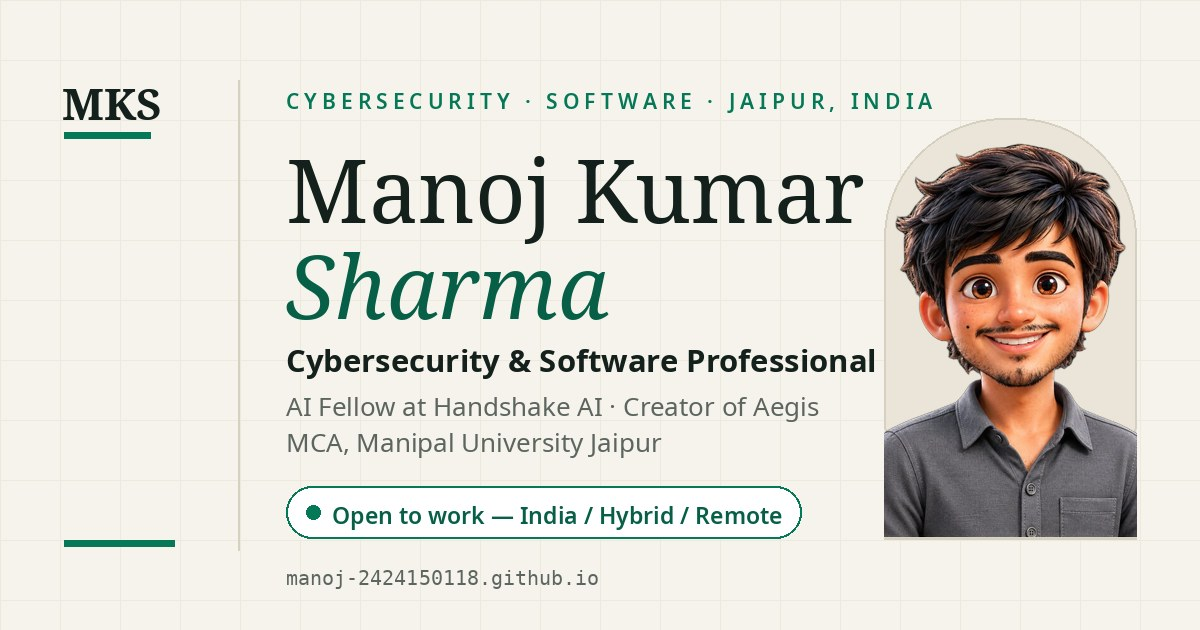
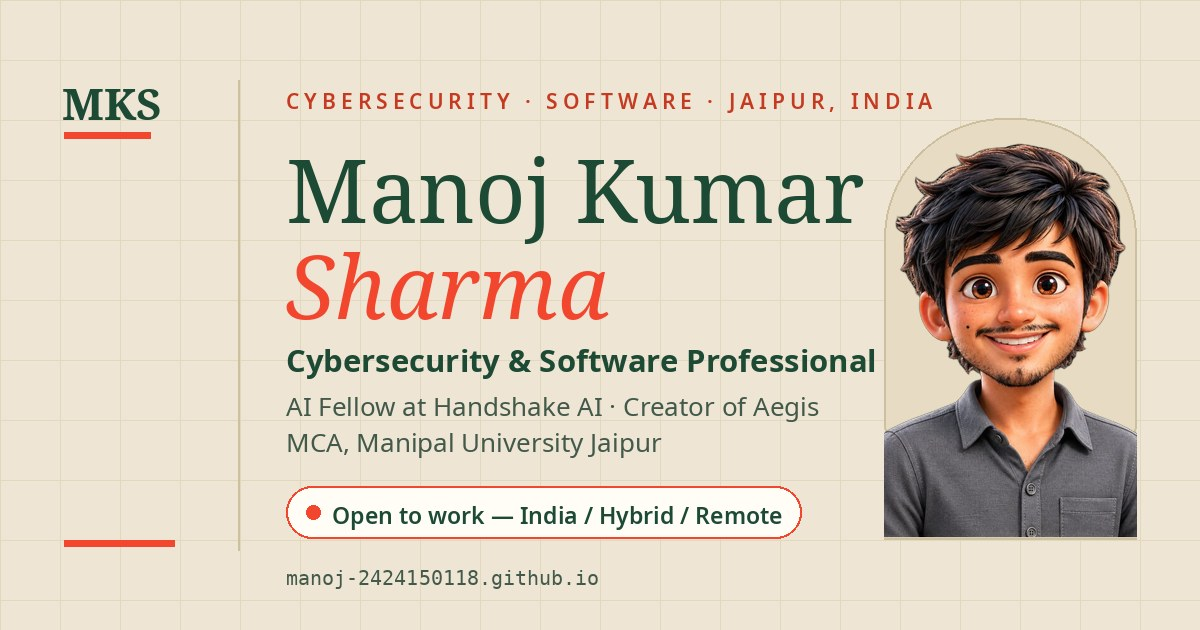
style: apply reel palette (Oat Milk / Forest Green / Tomato Red 60-30-10) to both colour schemes

Changed region(s): [[0.0, 0.0, 1.0, 1.0], [0.925, 0.754, 1.0, 0.8143]]

diff --git a/styles.css b/styles.css
@@ -2,22 +2,22 @@
 @font-face{font-family:'Instrument Serif';font-style:italic;font-weight:400;font-display:swap;src:url('fonts/instrument-serif-italic.woff2') format('woff2')}
 @font-face{font-family:'Inter';font-style:normal;font-weight:100 900;font-display:swap;src:url('fonts/inter-variable.woff2') format('woff2')}
 :root{
-  --bg:#050807; --bg-2:#0a0f0d; --panel:rgba(255,255,255,.045); --panel-2:rgba(16,185,129,.08);
-  --line:rgba(255,255,255,.10); --line-strong:rgba(110,231,199,.35); --ink:#ffffff; --ink-2:#e2e8f0; --ink-3:#94a3b8;
-  --accent:#10b981; --accent-2:#a7f3d0; --accent-soft:#6ee7b7; --accent-ink:#04120e;
+  --bg:#0a1f13; --bg-2:#0f2a1a; --panel:rgba(238,229,212,.05); --panel-2:rgba(46,106,74,.16);
+  --line:rgba(238,229,212,.12); --line-strong:rgba(242,70,46,.45); --ink:#eee5d4; --ink-2:#d9cfbb; --ink-3:#a79b83;
+  --accent:#f2462e; --accent-2:#ff8a70; --accent-soft:#f2462e; --accent-ink:#ffffff;
   --sans:'Inter',system-ui,BlinkMacSystemFont,'Segoe UI',Roboto,sans-serif;
   --serif:'Instrument Serif',Georgia,'Times New Roman',serif;
   --mono:ui-monospace,'SF Mono','Cascadia Code',Menlo,Consolas,monospace;
   --r:16px; --max:1120px; color-scheme:dark;
 }
 *{box-sizing:border-box;margin:0;padding:0}
-html{scroll-behavior:smooth;-webkit-text-size-adjust:100%;scroll-padding-top:96px;scrollbar-color:rgba(16,185,129,.55) var(--bg)}
+html{scroll-behavior:smooth;-webkit-text-size-adjust:100%;scroll-padding-top:96px;scrollbar-color:rgba(242,70,46,.55) var(--bg)}
 body{background:var(--bg);color:var(--ink);font-family:var(--sans);font-weight:400;line-height:1.65;overflow-x:hidden;-webkit-font-smoothing:antialiased;
-  background-image:radial-gradient(900px 480px at 85% -5%,rgba(16,185,129,.16),transparent 60%),radial-gradient(700px 420px at -10% 20%,rgba(16,185,129,.07),transparent 55%)}
+  background-image:radial-gradient(900px 480px at 85% -5%,rgba(242,70,46,.13),transparent 60%),radial-gradient(700px 420px at -10% 20%,rgba(46,106,74,.20),transparent 55%)}
 ::-webkit-scrollbar{width:10px}
 ::-webkit-scrollbar-track{background:var(--bg)}
-::-webkit-scrollbar-thumb{background:rgba(16,185,129,.4);border-radius:8px;border:2px solid var(--bg)}
-::-webkit-scrollbar-thumb:hover{background:rgba(16,185,129,.65)}
+::-webkit-scrollbar-thumb{background:rgba(242,70,46,.4);border-radius:8px;border:2px solid var(--bg)}
+::-webkit-scrollbar-thumb:hover{background:rgba(242,70,46,.65)}
 ::selection{background:var(--accent);color:var(--accent-ink)}
 img{max-width:100%;display:block}
 a{color:var(--accent-2);text-decoration:none}
@@ -26,11 +26,11 @@ a:hover{text-decoration:underline}
 main:focus{outline:none}
 .wrap{position:relative;max-width:var(--max);width:100%;margin:0 auto;padding:0 24px}
 .skip{position:absolute;left:-9999px;top:auto}
-.skip:focus{left:24px;top:16px;z-index:99;background:#0a0f0d;padding:10px 16px;border-radius:8px;border:1px solid var(--line)}
+.skip:focus{left:24px;top:16px;z-index:99;background:#0f2a1a;padding:10px 16px;border-radius:8px;border:1px solid var(--line)}
 .sr-only{position:absolute!important;width:1px;height:1px;padding:0;margin:-1px;overflow:hidden;clip:rect(0,0,0,0);white-space:nowrap;border:0}
 main{counter-reset:sec}
-nav{position:sticky;top:0;z-index:50;backdrop-filter:blur(14px);-webkit-backdrop-filter:blur(14px);background:rgba(5,8,7,.78);border-bottom:1px solid var(--line);transition:background .3s,box-shadow .3s}
-nav.scrolled{background:rgba(5,8,7,.94);box-shadow:0 12px 32px rgba(0,0,0,.45)}
+nav{position:sticky;top:0;z-index:50;backdrop-filter:blur(14px);-webkit-backdrop-filter:blur(14px);background:rgba(10,31,19,.80);border-bottom:1px solid var(--line);transition:background .3s,box-shadow .3s}
+nav.scrolled{background:rgba(10,31,19,.95);box-shadow:0 12px 32px rgba(0,0,0,.45)}
 .progress{position:absolute;top:0;left:0;height:2px;width:100%;background:linear-gradient(90deg,var(--accent),var(--accent-2));transform-origin:0 50%;transform:scaleX(0);z-index:60}
 nav .wrap{display:flex;align-items:center;justify-content:space-between;min-height:62px;gap:16px}
 .brand{display:flex;align-items:center;gap:10px;color:var(--ink);font-family:var(--serif);font-size:1.08rem}
@@ -45,7 +45,7 @@ nav .wrap{display:flex;align-items:center;justify-content:space-between;min-heig
 .navlinks a.active::after{transform:scaleX(1)}
 .navlinks a.nav-cta{border:1px solid var(--accent);color:var(--accent-2)!important;padding:8px 14px;border-radius:999px;text-transform:none!important;letter-spacing:0!important;font-size:.84rem!important;transition:background .2s,transform .2s}
 .nav-cta::after{display:none}
-.nav-cta:hover{background:rgba(16,185,129,.14);transform:translateY(-1px)}
+.nav-cta:hover{background:rgba(242,70,46,.14);transform:translateY(-1px)}
 .menu-toggle{display:none;background:none;border:none;color:var(--ink);cursor:pointer;padding:6px;min-width:44px;min-height:44px;align-items:center;justify-content:center}
 @media(max-width:1024px){
   .menu-toggle{display:inline-flex}
@@ -61,7 +61,7 @@ header::before{content:"";position:absolute;inset:0;pointer-events:none;opacity:
   -webkit-mask-image:radial-gradient(640px 340px at 30% 20%,#000 30%,transparent 75%);mask-image:radial-gradient(640px 340px at 30% 20%,#000 30%,transparent 75%)}
 .hgrid{display:grid;grid-template-columns:1fr;gap:40px;align-items:center}
 @media(min-width:860px){.hgrid{grid-template-columns:1.2fr 1fr;gap:56px;align-items:start}.portrait-wrap{padding-top:89px}}@media(min-width:860px) and (max-width:1099px){.portrait-wrap{padding-top:110px}}
-.availability{display:inline-flex;align-items:center;gap:9px;border:1px solid rgba(16,185,129,.45);background:var(--panel-2);color:var(--accent-2);border-radius:999px;padding:7px 14px;font-size:.82rem;font-weight:500;margin-bottom:20px;white-space:nowrap}
+.availability{display:inline-flex;align-items:center;gap:9px;border:1px solid rgba(242,70,46,.45);background:var(--panel-2);color:var(--accent-2);border-radius:999px;padding:7px 14px;font-size:.82rem;font-weight:500;margin-bottom:20px;white-space:nowrap}
 @media(min-width:1024px) and (max-width:1249px){.availability{font-size:.78rem}}
 @media(min-width:860px) and (max-width:1023px){.availability{font-size:.64rem}}
 @media(max-width:859px){.availability{font-size:clamp(.46rem,2.3vw,.82rem);padding:6px 10px;gap:7px}}
@@ -85,7 +85,7 @@ a.chip:hover{border-color:var(--accent-2);color:var(--ink);text-decoration:none;
 .btn:hover{transform:translateY(-2px);border-color:var(--accent-2);text-decoration:none;box-shadow:0 10px 24px rgba(0,0,0,.35)}
 .btn:active{transform:translateY(0) scale(.98)}
 .btn.primary{background:linear-gradient(135deg,var(--accent-2),var(--accent-soft));color:var(--accent-ink);border-color:transparent;font-weight:600}
-.btn.primary:hover{box-shadow:0 12px 28px rgba(16,185,129,.28)}
+.btn.primary:hover{box-shadow:0 12px 28px rgba(242,70,46,.28)}
 .btn.small{padding:9px 18px;font-size:.84rem}
 .portrait-wrap{max-width:520px;margin:0 auto;width:100%}
 .portrait-card{position:relative}
@@ -120,7 +120,7 @@ a.card:hover{text-decoration:none;color:inherit}
 .card ul{margin-top:10px;padding-left:18px;color:var(--ink-2);font-size:.92rem}
 .card li{margin-bottom:6px}
 .card li::marker{color:var(--accent)}
-.featured{grid-column:1/-1;border-color:rgba(16,185,129,.35);background:linear-gradient(150deg,rgba(16,185,129,.09),var(--panel) 55%)}
+.featured{grid-column:1/-1;border-color:rgba(242,70,46,.35);background:linear-gradient(150deg,rgba(46,106,74,.22),var(--panel) 55%)}
 .span-all{grid-column:1/-1}
 .stack-gap{margin-top:18px}
 .subhead-gap{margin-top:20px}
@@ -128,7 +128,7 @@ a.card:hover{text-decoration:none;color:inherit}
 .featured h3{font-size:1.35rem}
 .kicker{font-size:.72rem;letter-spacing:.18em;text-transform:uppercase;color:var(--accent);font-weight:600;margin-bottom:8px}
 .tags{margin-top:16px;display:flex;flex-wrap:wrap;gap:7px}
-.tag{font-size:.70rem;padding:4px 10px;border-radius:6px;background:rgba(110,231,199,.10);color:var(--accent-2);font-weight:500;border:1px solid rgba(110,231,199,.20)}
+.tag{font-size:.70rem;padding:4px 10px;border-radius:6px;background:rgba(242,70,46,.10);color:var(--accent-2);font-weight:500;border:1px solid rgba(242,70,46,.22)}
 .skills{display:flex;flex-wrap:wrap;gap:9px;margin-top:12px}
 .skills span{border:1px solid var(--line);border-radius:8px;padding:8px 13px;font-size:.84rem;color:var(--ink-2);background:rgba(255,255,255,.02);transition:color .2s,border-color .2s,transform .2s}
 .skills span:hover{color:var(--ink);border-color:var(--accent);transform:translateY(-1px)}
@@ -152,7 +152,7 @@ footer .links{display:flex;gap:18px;justify-content:center;flex-wrap:wrap;margin
 .js .reveal{opacity:0;transform:translateY(22px);transition:opacity .7s cubic-bezier(.22,1,.36,1),transform .7s cubic-bezier(.22,1,.36,1)}
 .js .reveal.in{opacity:1;transform:none}
 .to-top{position:fixed;right:22px;bottom:22px;width:46px;height:46px;border-radius:50%;border:1px solid var(--accent);background:rgba(10,15,13,.92);color:var(--accent-2);cursor:pointer;display:flex;align-items:center;justify-content:center;opacity:0;pointer-events:none;transform:translateY(12px);transition:opacity .3s,transform .3s,background .2s;z-index:90;backdrop-filter:blur(8px);-webkit-backdrop-filter:blur(8px)}
-.to-top:hover{background:rgba(16,185,129,.18)}
+.to-top:hover{background:rgba(242,70,46,.18)}
 .to-top.show{opacity:1;pointer-events:auto;transform:none}
 .toast{position:fixed;bottom:22px;left:50%;transform:translateX(-50%) translateY(20px);background:#0a0f0d;border:1px solid var(--accent);color:var(--ink);padding:10px 18px;border-radius:999px;font-size:.86rem;opacity:0;pointer-events:none;transition:all .3s;z-index:99}
 .toast.show{opacity:1;transform:translateX(-50%) translateY(0)}
@@ -163,24 +163,24 @@ footer .links{display:flex;gap:18px;justify-content:center;flex-wrap:wrap;margin
 }
 @media (prefers-color-scheme: light){
   :root{
-    --bg:#f5f7f6; --bg-2:#eaefec; --panel:rgba(7,40,30,.05); --panel-2:rgba(4,120,87,.09);
-    --line:rgba(7,40,30,.16); --line-strong:rgba(4,120,87,.5); --ink:#0b120e; --ink-2:#26332c; --ink-3:#4c5d54;
-    --accent:#065f46; --accent-2:#036b4e; --accent-soft:#047857; --accent-ink:#ffffff;
+    --bg:#eee5d4; --bg-2:#e7dcc3; --panel:rgba(29,74,53,.05); --panel-2:rgba(242,70,46,.08);
+    --line:rgba(29,74,53,.18); --line-strong:rgba(242,70,46,.5); --ink:#1d4a35; --ink-2:#2c5a43; --ink-3:#43594a;
+    --accent:#f2462e; --accent-2:#1d4a35; --accent-soft:#c53a20; --accent-ink:#ffffff;
     color-scheme:light;
   }
-  body{background-image:radial-gradient(900px 480px at 85% -5%,rgba(16,185,129,.10),transparent 60%),radial-gradient(700px 420px at -10% 20%,rgba(16,185,129,.05),transparent 55%)}
-  nav{background:rgba(245,247,246,.82)}
-  nav.scrolled{background:rgba(245,247,246,.95);box-shadow:0 12px 32px rgba(7,40,30,.12)}
-  @media(max-width:1024px){.navlinks{background:rgba(245,247,246,.98)}}
-  .skip:focus{background:#ffffff}
-  header::before{background-image:linear-gradient(rgba(7,40,30,.05) 1px,transparent 1px),linear-gradient(90deg,rgba(7,40,30,.05) 1px,transparent 1px)}
-  .cmdline{background:rgba(255,255,255,.82)}
-  .card:hover{box-shadow:0 18px 36px rgba(7,40,30,.14)}
-  .btn:hover{box-shadow:0 10px 24px rgba(7,40,30,.16)}
-  .featured{border-color:rgba(4,120,87,.35);background:linear-gradient(150deg,rgba(4,120,87,.08),var(--panel) 55%)}
-  .tag{background:rgba(4,120,87,.09);border-color:rgba(4,120,87,.28)}
-  .to-top{background:rgba(255,255,255,.92)}
-  .toast{background:#0f1a15;color:#e9f5ef}
+  body{background-image:radial-gradient(900px 480px at 85% -5%,rgba(242,70,46,.08),transparent 60%),radial-gradient(700px 420px at -10% 20%,rgba(29,74,53,.06),transparent 55%)}
+  nav{background:rgba(238,229,212,.85)}
+  nav.scrolled{background:rgba(238,229,212,.96);box-shadow:0 12px 32px rgba(29,74,53,.14)}
+  @media(max-width:1024px){.navlinks{background:rgba(238,229,212,.98)}}
+  .skip:focus{background:#fffdf6}
+  header::before{background-image:linear-gradient(rgba(29,74,53,.06) 1px,transparent 1px),linear-gradient(90deg,rgba(29,74,53,.06) 1px,transparent 1px)}
+  .cmdline{background:rgba(255,253,246,.85)}
+  .card:hover{box-shadow:0 18px 36px rgba(29,74,53,.16)}
+  .btn:hover{box-shadow:0 10px 24px rgba(29,74,53,.18)}
+  .featured{border-color:rgba(242,70,46,.4);background:linear-gradient(150deg,rgba(242,70,46,.07),var(--panel) 55%)}
+  .tag{background:rgba(242,70,46,.09);border-color:rgba(242,70,46,.30)}
+  .to-top{background:rgba(255,253,246,.92)}
+  .toast{background:#1d4a35;color:#eee5d4}
 }
 @media print{
   body{background:#fff;color:#000}
@@ -188,7 +188,7 @@ footer .links{display:flex;gap:18px;justify-content:center;flex-wrap:wrap;margin
   header::before{display:none}
   .card,.stat{border-color:#ccc;background:#fff}
   .card p,.card ul,.lede,.section-lede,footer p{color:#222}
-  h1 em,.stat b,.card .role,.sub{color:#065f46}
+  h1 em,.stat b,.card .role,.sub{color:#1d4a35}
   section,header{padding:28px 0}
 }
 
@@ -211,11 +211,11 @@ footer .links{display:flex;gap:18px;justify-content:center;flex-wrap:wrap;margin
   body{background:#fff !important;color:#111 !important;background-image:none !important}
   header,section{padding:14px 0 !important;border-top:1px solid #ccc !important}
   h1,h2,h3,.lede,.stat b{color:#111 !important}
-  h1 em,h2 em{color:#065f46 !important}
+  h1 em,h2 em{color:#1d4a35 !important}
   p,li,span,a{color:#111 !important}
   a{text-decoration:none !important}
   .card,.chip,.tag{border-color:#bbb !important;background:#fff !important;color:#111 !important}
-  .btn{border:1px solid #065f46 !important;color:#065f46 !important;background:#fff !important}
+  .btn{border:1px solid #1d4a35 !important;color:#1d4a35 !important;background:#fff !important}
   .wrap{max-width:100%;padding:0}
   .reveal{opacity:1 !important;transform:none !important}
 }

diff --git a/404.html b/404.html
@@ -4,8 +4,8 @@
 <meta charset="utf-8">
 <meta http-equiv="Content-Security-Policy" content="default-src 'self'; script-src 'self'; style-src 'self' 'sha256-puWyCwUT640XmHLgCz2V3DWL9mz2f8Vj/XwRIYT7Q1o=' 'sha256-aBs6FCHttzcnKrMojf/lO+PpHmPFwwK7nXLEtBJb09o='; font-src 'self'; img-src 'self' data:; connect-src 'self'; object-src 'none'; base-uri 'self'; form-action 'self'; frame-src 'none'; worker-src 'none'; upgrade-insecure-requests;">
 <meta name="viewport" content="width=device-width,initial-scale=1">
-<meta name="theme-color" media="(prefers-color-scheme: dark)" content="#050807">
-<meta name="theme-color" media="(prefers-color-scheme: light)" content="#f5f7f6">
+<meta name="theme-color" media="(prefers-color-scheme: dark)" content="#0a1f13">
+<meta name="theme-color" media="(prefers-color-scheme: light)" content="#eee5d4">
 <meta name="referrer" content="strict-origin-when-cross-origin">
 <style id="antiClickjack">html{display:none !important}</style>
 <script src="/anti-clickjack.js"></script>

diff --git a/aegis.html b/aegis.html
@@ -15,8 +15,8 @@
 <link rel="preload" href="fonts/inter-variable.woff2" as="font" type="font/woff2" crossorigin>
 <meta name="author" content="Manoj Kumar Sharma">
 <meta name="robots" content="index, follow, max-image-preview:large">
-<meta name="theme-color" media="(prefers-color-scheme: dark)" content="#050807">
-<meta name="theme-color" media="(prefers-color-scheme: light)" content="#f5f7f6">
+<meta name="theme-color" media="(prefers-color-scheme: dark)" content="#0a1f13">
+<meta name="theme-color" media="(prefers-color-scheme: light)" content="#eee5d4">
 <meta property="og:title" content="Aegis — Personal Cyber Defense Platform | Case Study">
 <meta property="og:description" content="Ten explainable security tools in one hardened platform: phishing URL & email analysis, in-memory malware scanning, breach checks, encrypted vault, website audits.">
 <meta property="og:type" content="article">

diff --git a/deceptive-net.html b/deceptive-net.html
@@ -15,8 +15,8 @@
 <link rel="preload" href="fonts/inter-variable.woff2" as="font" type="font/woff2" crossorigin>
 <meta name="author" content="Manoj Kumar Sharma">
 <meta name="robots" content="index, follow, max-image-preview:large">
-<meta name="theme-color" media="(prefers-color-scheme: dark)" content="#050807">
-<meta name="theme-color" media="(prefers-color-scheme: light)" content="#f5f7f6">
+<meta name="theme-color" media="(prefers-color-scheme: dark)" content="#0a1f13">
+<meta name="theme-color" media="(prefers-color-scheme: light)" content="#eee5d4">
 <meta property="og:title" content="Deceptive-Net — WGAN-GP Honey-Token Framework | Case Study">
 <meta property="og:description" content="An AI-driven defensive system using Wasserstein GANs (WGAN-GP) to generate hyper-realistic honey-tokens and deceptive artefacts that mislead attackers.">
 <meta property="og:type" content="article">

diff --git a/index.html b/index.html
@@ -17,8 +17,8 @@
 <link rel="preload" href="fonts/instrument-serif-regular.woff2" as="font" type="font/woff2" crossorigin>
 <meta name="author" content="Manoj Kumar Sharma">
 <meta name="robots" content="index, follow, max-image-preview:large">
-<meta name="theme-color" media="(prefers-color-scheme: dark)" content="#050807">
-<meta name="theme-color" media="(prefers-color-scheme: light)" content="#f5f7f6">
+<meta name="theme-color" media="(prefers-color-scheme: dark)" content="#0a1f13">
+<meta name="theme-color" media="(prefers-color-scheme: light)" content="#eee5d4">
 <meta property="og:title" content="Manoj Kumar Sharma — Cybersecurity & Software">
 <meta property="og:description" content="Cybersecurity & software professional in Jaipur — MCA graduate and AI Fellow at Handshake AI. SOC analysis, vulnerability assessment & secure software.">
 <meta property="og:type" content="profile">

diff --git a/resume.html b/resume.html
@@ -15,8 +15,8 @@
 <link rel="preload" href="fonts/inter-variable.woff2" as="font" type="font/woff2" crossorigin>
 <meta name="author" content="Manoj Kumar Sharma">
 <meta name="robots" content="index, follow, max-image-preview:large">
-<meta name="theme-color" media="(prefers-color-scheme: dark)" content="#050807">
-<meta name="theme-color" media="(prefers-color-scheme: light)" content="#f5f7f6">
+<meta name="theme-color" media="(prefers-color-scheme: dark)" content="#0a1f13">
+<meta name="theme-color" media="(prefers-color-scheme: light)" content="#eee5d4">
 <meta property="og:title" content="Résumé — Manoj Kumar Sharma">
 <meta property="og:description" content="Cybersecurity & Software Professional · MCA, Manipal University Jaipur · AI Fellow at Handshake AI.">
 <meta property="og:type" content="profile">
